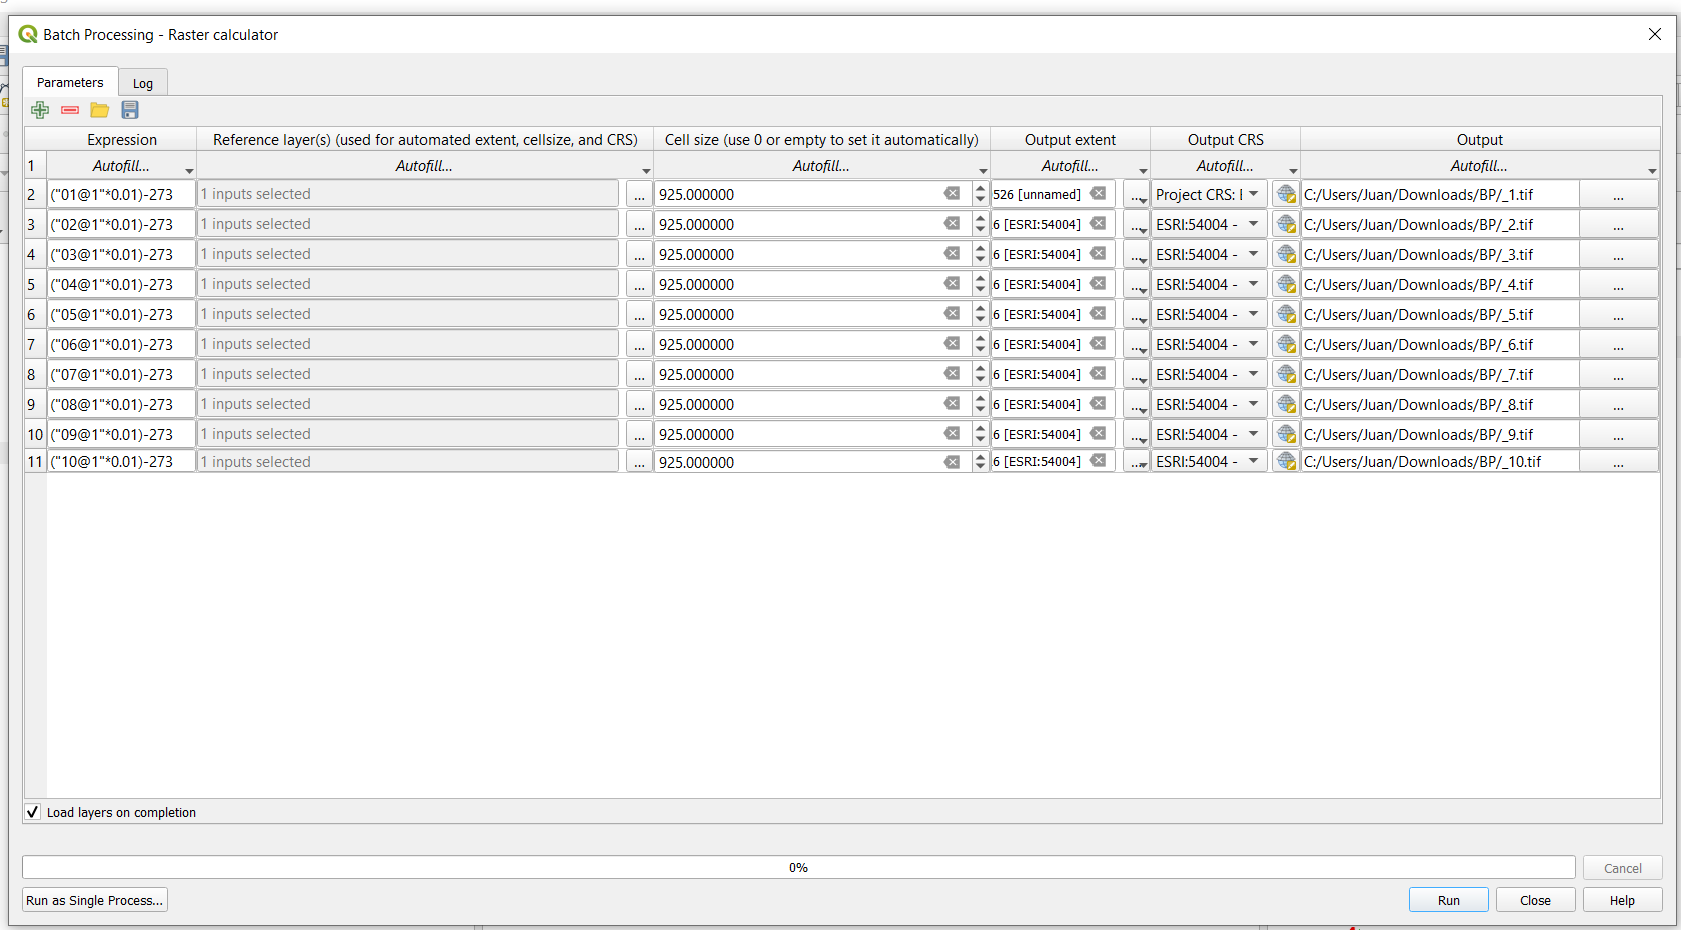
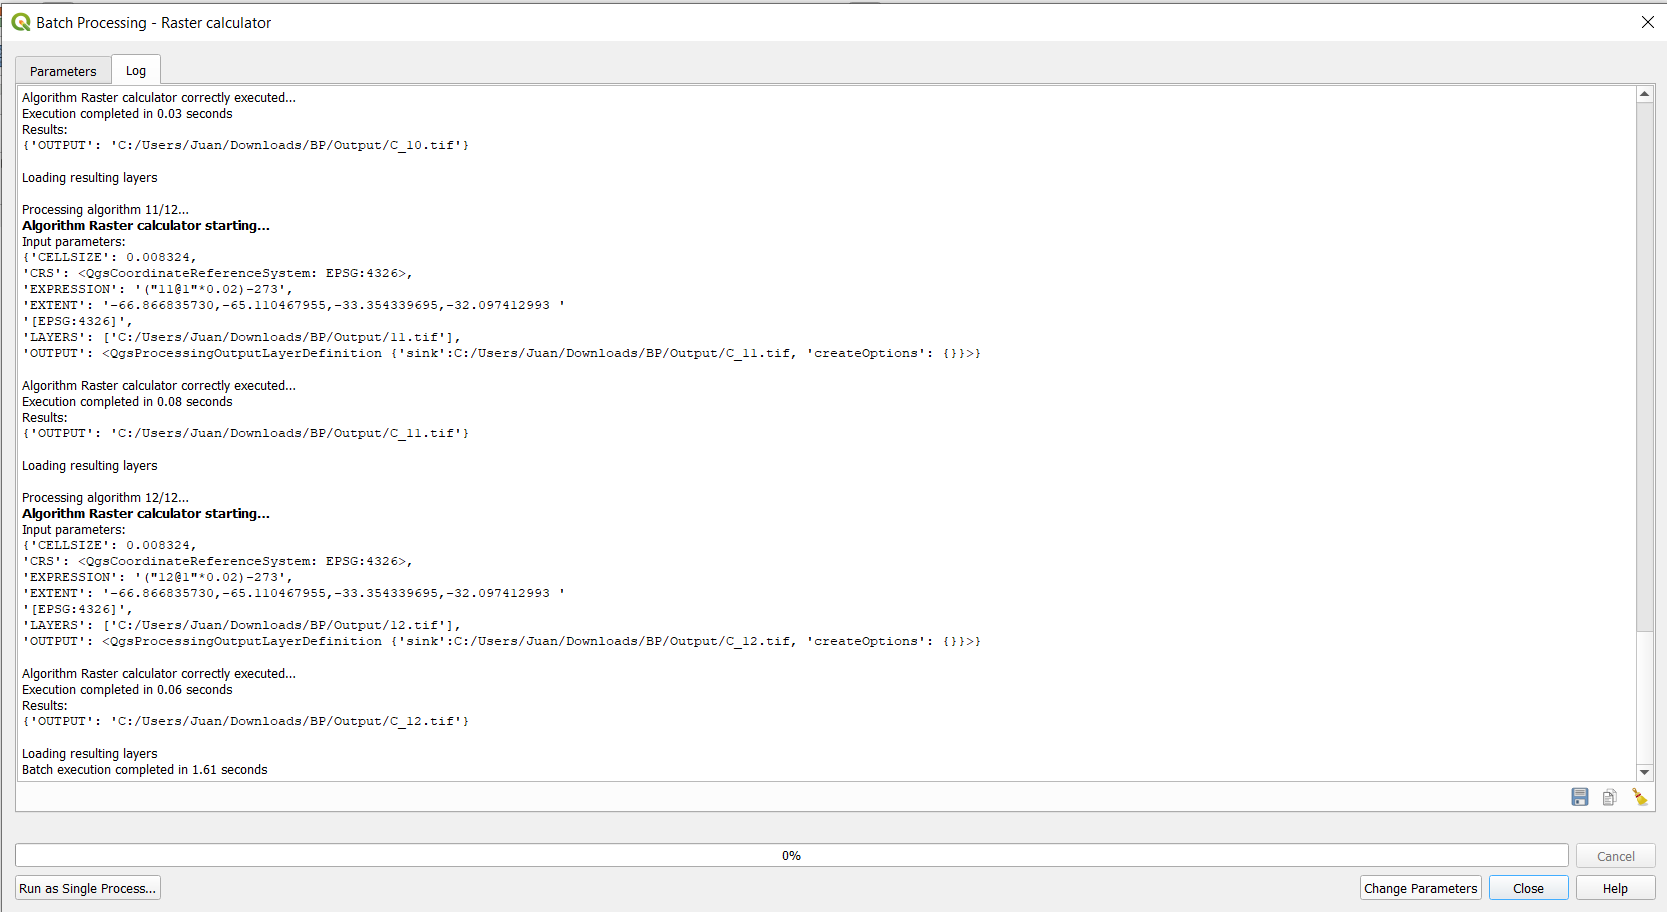
Updated QGIS tutorial.

Changed region(s): [[0.0, 0.0, 1.0, 1.0], [0.3119, 0.6754, 0.4367, 0.7061], [0.4991, 0.6754, 0.5303, 0.7061]]

diff --git a/content/posts/qgis/qgis_1.md b/content/posts/qgis/qgis_1.md
@@ -16,7 +16,7 @@ In this tutorial, we'll explore the capabilities of batch processing in QGIS. Ba
 Let me set up an example where we'll fully leverage the power of batch processing in QGIS.
 
 ## Case Example
-We've got a set of 10 MODIS land surface temperature (LST) images for an area of interest. These images are in Kelvin degrees, but before we can perform our analysis in Celsius, we need to first scale the temperature values by a factor of 0.01. After scaling, we'll convert the temperatures from Kelvin to Celsius by subtracting 273.
+We've got a set of 12 MODIS land surface temperature (LST) images for an area of interest. These images are in Kelvin degrees, but before we can perform our analysis in Celsius, we need to first scale the temperature values by a factor of 0.02. After scaling, we'll convert the temperatures from Kelvin to Celsius by subtracting 273.
 
 If we were to take the regular approach, we would have to open the Raster Calculator in QGIS and perform these operations 12 times, once for each image. However, with QGIS's batch processing tool, we can automate these tasks and handle all 12 images efficiently in one go.
 
@@ -28,7 +28,7 @@ First we'll load the images into QGIS as shown in the picture below:
 
 {{< vs 1 >}}
 
-To make things simpler, I'll rename layers and number them (according to the date):
+To perform the scaling and conversion, we will use the Raster Calculator. Note that the Raster Calculator in the traditional menu doesn’t support batch processing, so we need to access it through the Processing Toolbox as shown below:
 
 {{< vs 1 >}}
 
@@ -36,7 +36,7 @@ To make things simpler, I'll rename layers and number them (according to the dat
 
 {{< vs 1 >}}
 
-To perform the scaling and conversion, we will use the Raster Calculator. Note that the Raster Calculator in the traditional menu doesn’t support batch processing, so we need to access it through the Processing Toolbox as shown below:
+A window will open up and we will first click on the option *'Run as Batch Process'*. Afterwards, we’ll see the following menu:
 
 {{< vs 1 >}}
 
@@ -44,7 +44,21 @@ To perform the scaling and conversion, we will use the Raster Calculator. Note t
 
 {{< vs 1 >}}
 
-A window will open up and we will first click on the option *'Run as Batch Process'*. Afterwards, we’ll see the following menu:
+On this menu, we’ll need to fill out a table with the arguments for the process we are applying to each of our layers. We'll describe the necessary arguments for each of these columns:
+
+- **Reference layer:** let’s start by filling up the *'Reference layer'* column. If we click on the *'Select from open layers'* option, we’ll be able to choose from a list of all the available layers. As a result, the table will be automatically populated with these layers.
+
+- **Expression:** Since we have numbered the layers, we will define the expression for the first layer, then use the fill down option for the other layers. Afterwards, manually edit each expression to match the corresponding layer name (this is straightforward as we have numbered the layers). The expression I used was the following: *("01@1"\*0.02)-273*
+
+- **Cell size:** By consulting layers metadata, we see that the spatial resolution is 0.0083 (expressed in degrees as layers have a geographical CRS), that's aproximately 925 meters at the equator. We’ll use this value and populate each row by using the fill down option again.
+
+- **Output extent:** For the first layer we'll click on the three dots and select the *'Calculate from layer option'*. Remaining layers we'll be populated with the same value by using the fill down option.
+
+- **Output CRS:** we'll choose the same CRS (EPSG: 4326) of the original layers and project and once again fill down to every other row.
+
+- **Output:** Finally, it only remains to define the output for each layer. Click on the three dots for the first layer, set up a prefix (such as *C_*), and then click on the *'Fill with numbers'* option.
+
+As a result of all the steps we've described above, the completed table should look like the picture shown below:
 
 {{< vs 1 >}}
 
@@ -52,21 +66,9 @@ A window will open up and we will first click on the option *'Run as Batch Proce
 
 {{< vs 1 >}}
 
-On this menu, we’ll need to fill out a table with the arguments for the process we are applying to each of our layers. We'll describe the necessary arguments for each of these columns:
+Dont forget to check the *'Load layers on completion'* option to visualize your result upon completion!
 
-- **Reference layer:** let’s start by filling up the *'Reference layer'* column. If we click on the *'Select from open layers'* option, we’ll be able to choose from a list of all the available layers. As a result, the table will be automatically populated with these layers.
-
-- **Expression:** Since we have numbered the layers, we will define the expression for the first layer, then use the fill down option for the other layers. Afterwards, manually edit each expression to match the corresponding layer name (this is straightforward as we have numbered the layers).
-
-- **Cell size:** By consulting layers metadata, we see that the spatial resolution is of 925 meters. We’ll use this value and populate each row by using the fill down option again.
-
-- **Output extent:** For the first layer we'll click on the three dots and select the *'Calculate from layer option'*. Remaining layers we'll be populated with the same value by using the fill down option.
-
-- **Output CRS:** we'll choose the same CRS of the original layers and project and once again fill down to every other row.
-
-- **Output:** Finally, it only remains to define the output for each layer. Click on the three dots for the first layer, set up a prefix (such as an underscore), and then click on the *'Fill with numbers'* option.
-
-As a result of all the steps we've described above, the completed table should look like the picture shown below:
+We are now set up to execute the batch process. Click on Run, and if everything works correctly, no warnings should appear in the console. As a result, new layers should appear in the Layers panel, containing the converted temperatures from Kelvin to Celsius.
 
 {{< vs 1 >}}
 
@@ -74,8 +76,11 @@ As a result of all the steps we've described above, the completed table should l
 
 {{< vs 1 >}}
 
-Dont forget to check the *'Load layers on completion'* option to visualize your result upon completion!
-We are now set up to execute the batch process. Click on Run, and if everything works correctly, no warnings should appear in the console. As a result, new layers should appear in the Layers panel, containing the converted temperatures from Kelvin to Celsius.
+{{< vs 1 >}}
+
+{{<img src="images/_06.png" align="center">}}
+
+{{< vs 1 >}}
 
 ## Conclusion
 Batch processing might seem daunting at first, but once you get the hang of it, it can be incredibly useful. Understanding the logic behind setting it up will make you more effective and help reduce repetitive and exhausting tasks. I hope this tutorial has been helpful. Stay tuned for more tutorials!
